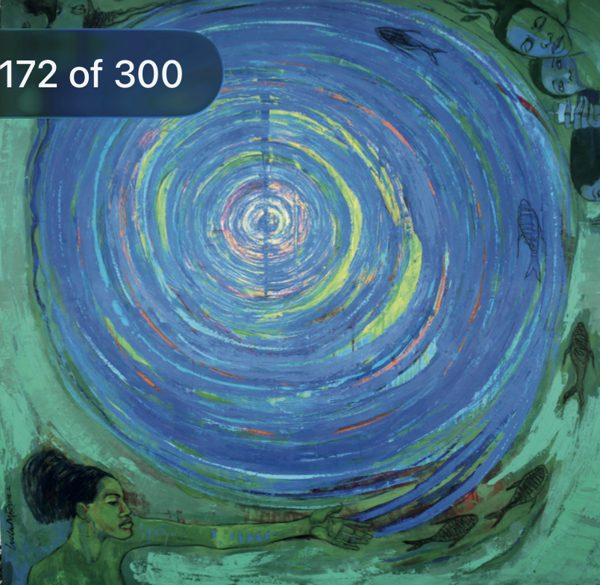
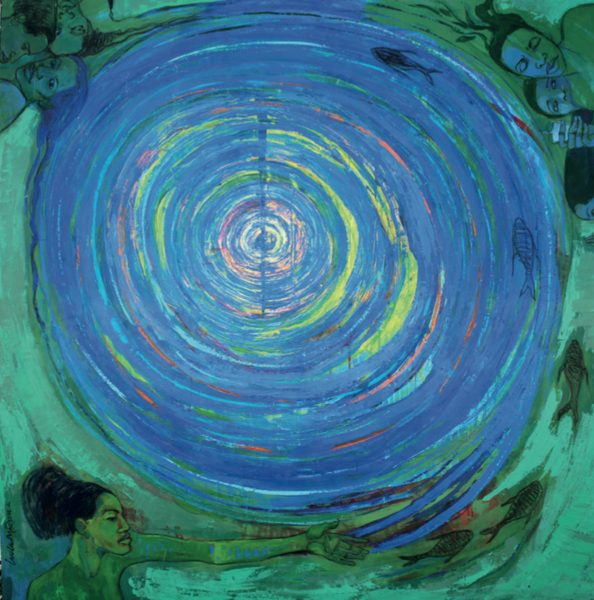
Auction: Luis Muñoz's Trance upon the Waters of the Caribbean (page 181) and a clean image of Espiral de la Vida
Claude-Session: https://claude.ai/code/session_01JFgdJiiK19J4ZJBah5TEjT

diff --git a/museo-abreu/auction-config.js b/museo-abreu/auction-config.js
@@ -670,7 +670,7 @@ var AUCTION = {
       title: { es: 'Corriente Vital', en: 'Corriente Vital (Vital Current)', fr: 'Corriente Vital' },
       spec: { es: 'Técnica mixta sobre lienzo · 79 × 79 pulg, (200,7 × 200,7 cm)', en: 'Mixed media on canvas · 79 × 79 in (200.7 × 200.7 cm)', fr: 'Technique mixte sur toile · 79 × 79 po (200,7 × 200,7 cm)' },
       startBid: 1000 },
-    { id: 'espiral-de-la-vida', kind: 'painting', artist: 'Lucía Méndez Rivas', year: 2015, img: 'img/mendez-espiral.jpg', thumb: 'img/mendez-espiral-600.jpg', w: 804, h: 784,
+    { id: 'espiral-de-la-vida', kind: 'painting', artist: 'Lucía Méndez Rivas', year: 2015, img: 'img/mendez-espiral.jpg', thumb: 'img/mendez-espiral-600.jpg', w: 804, h: 812,
       title: { es: 'Espiral de la Vida', en: 'Espiral de la Vida (Spiral of Life)', fr: 'Espiral de la Vida' },
       spec: { es: 'Técnica mixta sobre lienzo · 79 × 79 pulg, (200,7 × 200,7 cm)', en: 'Mixed media on canvas · 79 × 79 in (200.7 × 200.7 cm)', fr: 'Technique mixte sur toile · 79 × 79 po (200,7 × 200,7 cm)' },
       startBid: 1000 },
@@ -713,6 +713,10 @@ var AUCTION = {
     { id: 'the-song-of-the-baobab-spirit', kind: 'painting', artist: 'Luis Muñoz', year: 2024, img: 'img/luis-baobab.jpg', thumb: 'img/luis-baobab-600.jpg', w: 804, h: 575,
       title: { es: 'The Song of the Baobab Spirit', en: 'The Song of the Baobab Spirit', fr: 'The Song of the Baobab Spirit' },
       spec: { es: 'Técnica mixta sobre lienzo · 30 × 40 pulg, (76,2 × 101,6 cm)', en: 'Mixed media on canvas · 30 × 40 in (76.2 × 101.6 cm)', fr: 'Technique mixte sur toile · 30 × 40 po (76,2 × 101,6 cm)' },
+      startBid: 1000 },
+    { id: 'trance-upon-the-waters-of-the-caribbean', kind: 'painting', artist: 'Luis Muñoz', year: 2024, img: 'img/luis-trance.jpg', thumb: 'img/luis-trance-600.jpg', w: 804, h: 1075,
+      title: { es: 'Trance upon the Waters of the Caribbean', en: 'Trance upon the Waters of the Caribbean', fr: 'Trance upon the Waters of the Caribbean' },
+      spec: { es: 'Técnica mixta sobre lienzo · 30 × 40 pulg. (76,2 × 101,6 cm)', en: 'Mixed media on canvas · 30 × 40 in (76.2 × 101.6 cm)', fr: 'Technique mixte sur toile · 30 × 40 po (76,2 × 101,6 cm)' },
       startBid: 1000 },
     { id: 'guardians-of-the-ancestral-drum', kind: 'painting', artist: 'Luis Muñoz', year: 2024, img: 'img/luis-guardians.jpg', thumb: 'img/luis-guardians-600.jpg', w: 372, h: 264,
       title: { es: 'Guardians of the Ancestral Drum', en: 'Guardians of the Ancestral Drum', fr: 'Guardians of the Ancestral Drum' },

diff --git a/museo-abreu/sw.js b/museo-abreu/sw.js
@@ -1,5 +1,5 @@
 // Offline shell: the app opens without a connection (e.g. to show a ticket QR).
-const CACHE = 'museo-abreu-v188';
+const CACHE = 'museo-abreu-v189';
 const SHELL = ['./', 'index.html', 'styles.css', 'i18n.js', 'sample-en.js', 'sample-es.js', 'sample-fr.js', 'sample-de.js', 'sample-ru.js', 'sample-it.js', 'sample-pt.js', 'sample-ja.js', 'data.js', 'manifestos.js', 'manifestos-text.js', 'booking-config.js', 'features.js', 'gabangi.js', 'content.js', 'rsvp.js', 'checkout.js', 'auction-config.js', 'market.js', 'events-page.js', 'admin.js', 'story.js', 'aftercare.js', 'insights.js', 'remind.js', 'wishlist.js', 'alerts.js', 'newsletter.js', 'scanner.js', 'kit.js', 'contact.js', 'legal.js', 'fullbook.js', 'bookplus.js', 'sample-fund.js', 'fundamentos-parse.js', 'fundamentos.js', 'listen.js', 'audiobook.js', 'director.js', 'app.js', 'agent-widget.js', 'icon.svg', 'manifest.webmanifest',
   'qrcode.js', 'img/escaping-being.jpg', 'img/passion.jpg', 'img/petrichor.jpg', 'img/resilience.jpg', 'img/limerence.jpg', 'img/echoes-of-memory.jpg',
   'img/time-on-my-face.jpg',
